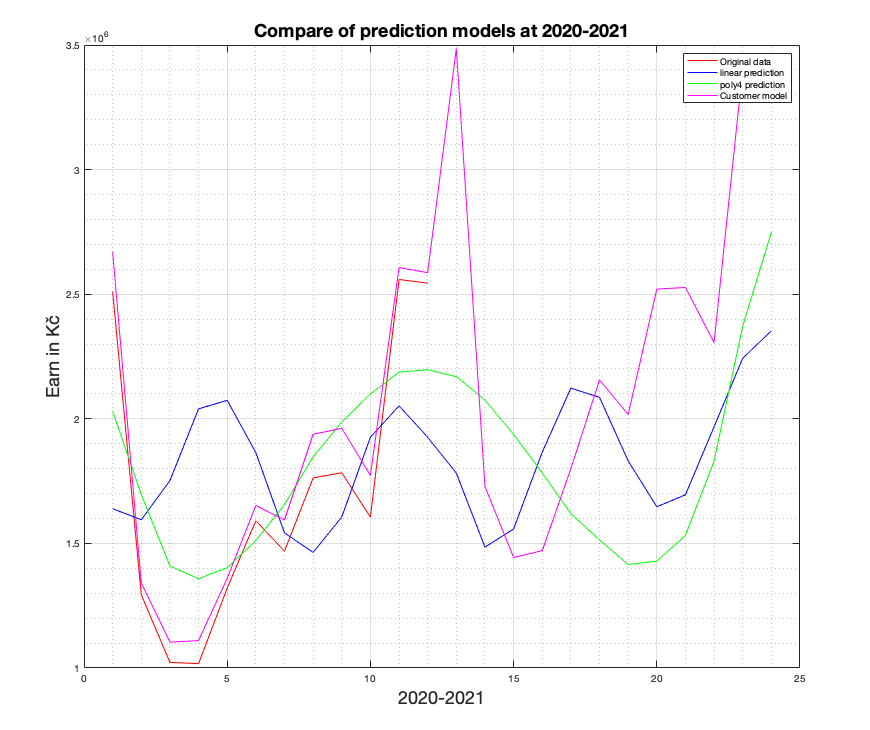
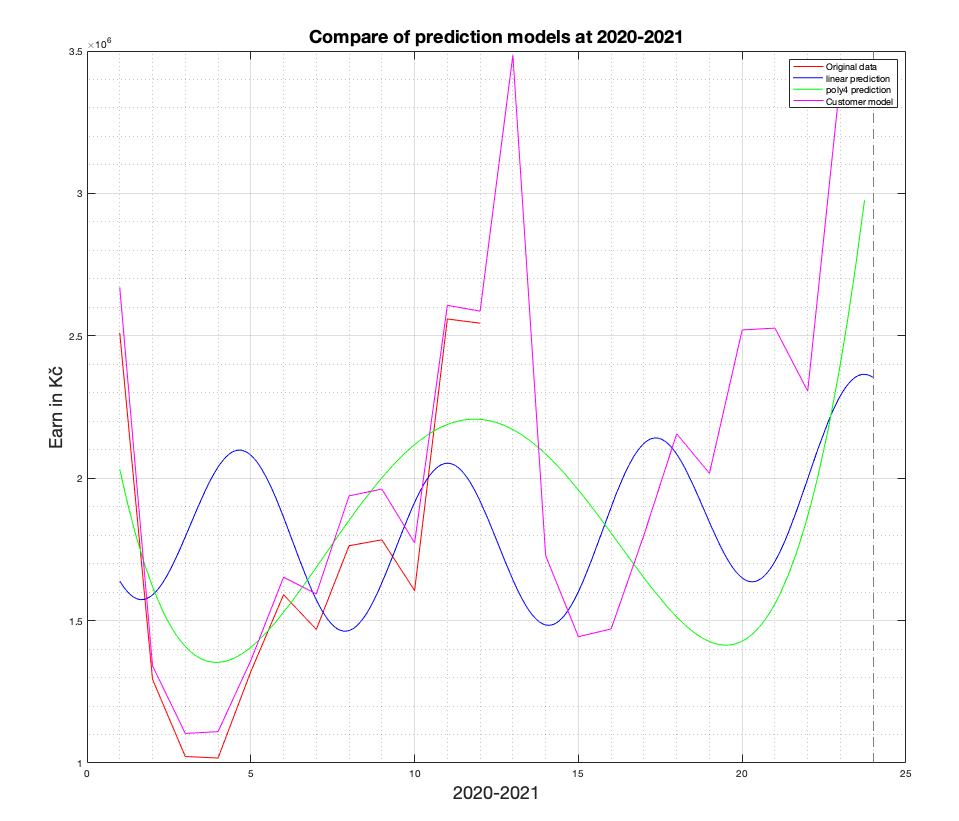
Final corrections.

diff --git a/chapters/synthesis.tex b/chapters/synthesis.tex
@@ -8,12 +8,13 @@ Finally, our approach will return future income for online store based on previo
 Customer behavior HMM directly returns number of predicted orders used to calculate estimated income.
 For successful prediction open data for store strength and customer satisfaction and some predefined and computed variables from store will be used.
 
-\section{Customer behavior HMM} \label{sec:submodels}
+\section{Customer behavior Hidden Markov Model} \label{sec:submodels}
 Our model is based on Markov models (see section~\ref{markovmodel}) and consist of these three states: order, not finished order, no order decision.
 Model simulates customer behavior during order process and tries to return the way with the most probability.
 Then reads the results by Viterbi algorithm and checks if the order was made.
 As inputs serves probabilities from predefined submodels used as transition matrix for HMM, number of customers in the predicted period,
-probability matrix of initial states and average income per order from previous period.\\
+probability matrix of initial states and average income per order from previous period.
+On the figure~\ref{Model schema with interaction} the computation flow and interactions between models in Customer behavior HMM is presented.\\
 \begin{figure}[h!]
     \begin{center}
         \includegraphics[width=100mm]{computation_schema.png}
@@ -40,31 +41,22 @@ In the first step the model got predefined data from initial part (see section~\
     \caption{Overview of states and their combinations}
     \label{states}
 \end{figure}\\
-On the figure~\ref{Model schema with interaction} the computation flow and interactions between models in Customer behavior HMM is presented.\\
 \subsection{Vendors submodel} \label{subsec:model_vendors}
-For simplification, we will take to account only a two vendors market share, without 100\% domination, because on a real
-market is 100\% monopole unlikely to see and then we will be reflected only main competitor.
-From that condition it is evident that for market to which dominate vendor it will return false positive results.
-Our model is based on equations from Brands section~\ref{eq:10} and from those equations we will get probability of vendor
-change from vendor $A$ to vendor $B$ and if the vendor $B$ will have more strength than vendor $A$ it will disrupt the
+For simplification, we will take into account only two vendors market share, without 100\% domination, because on a real
+market 100\% monopole is unlikely to see and then we will reflect only main competitor.
+From that condition it is evident that for market to which vendor dominates it will return false positive results.
+Our model is based on equations from Brands (section~\ref{eq:10}) and from those equations we will get probability of vendor
+change from vendor $A$ to vendor $B$ and if the vendor $B$ will have more strength than vendor $A$, it will disrupt the
 computation and customer will leave our store without completing buying process successfully.
-Results of this computation wil be probability for each iteration of buying process simulation in an interval $[0,1]$.
+Results of this computation will in form of probability for each iteration of buying process simulation in an interval $[0,1]$.
 Data for this model will come from open data provided by google.com, heureka.cz/heureka.sk and national governments.
-That data will be combined with calculated price indexes downloaded from shopycrm.com tool (see flowchart~\ref{flowchart_vendor}).
+That data will be combined with calculated price indexes downloaded from shopycrm.com tool (see flowchart~\ref{flowchart_vendor}):
 \\
 \begin{equation} \label{eq:13}
-V_{xy} = \beta H(P_x-P_y) + \gamma H(Qx-Qy) + \delta H(Px-Py)H(Q_x - Q_y)
+V_{xy} = \beta H(P_x-P_y) + \gamma H(Qx-Qy) + \delta H(Px-Py)H(Q_x - Q_y),
 \end{equation}
 \\
-where $\beta, \gamma, \delta$ are non-negative~\ref{vendorCoeff}.
-\\
-\begin{itemize}
-    \item $P$ is prices of vendors products
-    \item $Q$ is a quality index of vendor
-    \item $H$ is a Heaviside function which will be calculated by equation~\ref{eq:13}.
-\end{itemize}\\
-\\
-\\
+where $\beta, \gamma, \delta$ are non-negative, $P$ is prices of vendors products, $Q$ is a quality index of vendor, $H$ is a Heaviside function which has values:\\
 \begin{equation} \label{eq:14}
 \begin{array}{l}
     H(s) = 1, s > 0 \\
@@ -73,52 +65,42 @@ where $\beta, \gamma, \delta$ are non-negative~\ref{vendorCoeff}.
 \end{equation}
 \\
 \subsection{Psychology submodel} \label{subsec:model_psychology}
-Psychology aspect is trying to simulate customer behavior in thee situation like a prices aspect, society influenced, mood aspect, actual needs
-and so on.
-In this model we will simplify only for price effect (see section~\ref{subsubsec:model_psychology_price}) and center of mass effect (see section~\ref{subsubsec:model_psychology_mass}).\\
+Psychology aspect is trying to simulate customer behavior in situations like a prices aspect, society influenced, mood aspect, actual needs and so on.
+In this model we will simplify only price effect and center of mass effect.\\
 \\
-\textbf{Price aspect} \label{subsubsec:model_psychology_price} is described by equation~\ref{eq:15} and Center of mass is described by equation~\ref{eq:17}.\\
+\textbf{Price aspect} \label{subsubsec:model_psychology_price} is described by equation:\\
 \\
 \begin{equation} \label{eq:15}
-\overset{-}{Q} = \frac{1}{n_p} \sum_{i=1}^{n_p} Q_i
+\overset{-}{Q} = \frac{1}{n_p} \sum_{i=1}^{n_p} Q_i,
 \end{equation}
 \\
-\begin{itemize}
-    \item $Q_i$ number of orders for product $i$ per day divide amount of orders per same day, prom interval $[0,1]$
-    \item $n_p$ number of products in store
-\end{itemize}
-\\
+where $Q_i$ number of orders for product $i$ per day divide amount of orders per same day, prom interval $[0,1]$, $n_p$ number of products in store:\\
 \begin{equation} \label{eq:16}
-\alpha_{ij} = \frac{C+max(Q_j, \overset{-}{Q})}{C+max(Q_i, \overset{-}{Q})}
+\alpha_{ij} = \frac{C+max(Q_j, \overset{-}{Q})}{C+max(Q_i, \overset{-}{Q})}.
 \end{equation}
 \\
 Coefficient C is used to be $\alpha_{ij}$ always positive.
 \textbf{Center of mass aspect} \label{subsubsec:model_psychology_mass} is applied as a part of sociology to our psychology model.
 Marketers use it for manipulating with customers in global way.
-Like a black friday, Cyber monday etc., in that days stores manipulate with our psychology by discount prices.
+Like a black friday, Cyber monday etc., in that days stores manipulate with our psychology by discount prices:
 \\
 \begin{equation} \label{eq:17}
-\overset{-}{P} = \frac{1}{n_p} \sum_{i=1}^{n_p} P_i
+\overset{-}{P} = \frac{1}{n_p} \sum_{i=1}^{n_p} P_i,
 \end{equation}
-\begin{itemize}
-    \item $P_i$ is defined as product price minus retail recommend price divide average price
-    \item $n_p$ number of products in store
-\end{itemize}
-\\
+where $P_i$ is defined as product price minus retail recommend price divide average price, $n_p$ number of products in store:\\
 \begin{equation} \label{eq:18}
-\beta_{ij} = \frac{C+max(P_j, \overset{-}{P})}{C+max(P_i, \overset{-}{P})}
+\beta_{ij} = \frac{C+max(P_j, \overset{-}{P})}{C+max(P_i, \overset{-}{P})}.
 \end{equation}
 \\
 This model returns final probability as count of $\alpha$ and $\beta$ probabilities for customer decision to make action from interval $[0,1]$.
 \\
 \subsection{Loyalty submodel} \label{subsec:model_loyalty}
-This submodel is based on Luarn \& Lin research~\cite{luarn} and we changed their model for our needs.\\
+This submodel is based on Luarn \& Lin research~\cite{luarn} and we changed their model for our needs:\\
 \begin{equation} \label{eq:19}
 L = \frac{R+Z}{Z},
 \end{equation}
 \\
 where L is probability of whole loyalty model, R is probability of separate loyalty model, Z is probability of commitment model.
-\end{enumerate}
 \\
 As we see on figure~\ref{Loyalty scheme} Loyalty model consists of three sub-models (Trust, Customer Satisfaction, Perceived value)
 but commitment model consist of only Trust and Customer Satisfaction.
@@ -162,8 +144,10 @@ Then partial results were combined into complex prediction mechanism, as you can
 HMM in combination with Viterbi algorithm will be used to detect hidden states, which will be reflected in predefined weights for specific
 industries to return data matrix with prediction.
 In a Hidden Markov Model (HMM), we have an invisible Markov chain (which we cannot observe), and each state
-generates in random one out of $k$ observations, which are visible to us. This final generated state is not important for us.
-We need know the way true states. This why Viterbi is used
+generates in random one out of $k$ observations, which are visible to us.
+This final generated state is not important for us.
+We need know the way true states.
+This why Viterbi is used
 Let’s look at our situation.
 Suppose we have the Markov Chain from above, with three states (order, not finished order and no order decision),
 $P$ - the transition probability matrix and $q$ — the initial probabilities.
@@ -187,4 +171,4 @@ P = \left(
 \end{equation}\\
 \\
 where $V_{xy}$ is vendor probability, $\alpha, \beta$ are partial results from psychology submodel, $R$ is partial
-loyalty and $Z$ is commitment probability. $l,m,k$ are a coefficients of initial states probabilities.
+loyalty and $Z$ is commitment probability, and $l,m,k$ are coefficients of initial states probabilities.

diff --git a/chapters/analysis.tex b/chapters/analysis.tex
@@ -43,7 +43,7 @@ Proprietary locking is for example blocking mobile phones for only one of the op
 \\
 \section{Modeling of Human Behavior} \label{sec:modeling}
 Overview of mathematical models and approaches used to modeling marketing approaches usually used to simulate consumer behavior is described in this section.
-\subsection{Dynamic Model} \label{subsec:dynamicModel}\\
+\subsection{Dynamic Models} \label{subsec:dynamicModel}\\
 One of the simplest models that have been considered for human behavior modeling are \textbf{dynamic single} prices~\cite{pantland}:
 
 \begin{equation} \label{eq:1}
@@ -82,7 +82,7 @@ However, this may be justified because, at the very least, subjective attribute 
 The $i$th measurement of innovations process is, intuitively, the part of the observation data that is unexplained by the $i$th model.
 The model that explains the largest portion of the observations is, of course, the model most likely to be correct.
 \\
-\subsection{Discrete-time model} \label{subsec:discrete}\\
+\subsection{Discrete-time Models} \label{subsec:discrete}\\
 Discrete models or difference equations \footnote{Difference equations can be viewed either as a discrete analogue of differential equations, or independently.
 They are used for approximation of differential operators, for solving mathematical problems with recurrences, for building various discrete
 models, etc.} are used to describe biological events or whole systems for which it is natural to regret time at fixed discrete intervals~\cite{pantland}:
@@ -98,7 +98,7 @@ The measurement innovations process for the $i$th model.\\
 \\
 The $i$th measurement innovations process is, intuitively, the part of the observation data that is unexplained by the $i$th model.
 The model that explains the largest portion of the observations is, of course, the model most likely to be correct.\\
-\subsection{Regression model} \label{sec:regression}
+\subsection{Regression Models} \label{sec:regression}
 A regression model is used to investigate the relationship between two or more variables and estimates one variable based on the others.
 In regression analysis, variables can be independent, which are used as the predictor or causal input and dependent, which are used as response variables.
 
@@ -240,6 +240,7 @@ Then, the initial distribution, together with the transition matrix P, determine
 	\caption{Basic schema of Markov model in human decision~\cite{patel}}
 	\label{markovmodel}
 \end{figure}\\
+\\
 \textbf{Hidden Markov model} \label{subsec:hmm}\\
 The statistical implementation of Markov chain in which the system being modeled is assumed to be a Markov process $X$ with unobservable states.
 HMM assumes that there is another process $Y$ with dependent behavior on $X$.
@@ -357,7 +358,7 @@ to a plane in three-dimensional space $(A, B, C)$.\\
 the probability, $p_i$, with which a customer buys a given product $i$ from a range of products $[1, n]$ depends on
 the value which customer internally assigned to that product and his price.
 This dependence is taken to be of exponential form.
-Assuming that guaranteeing that all probabilities are positive)
+Assuming that guaranteeing that all probabilities are positive:
 \\
 \begin{equation} \label{eq:9}
 p_i = C\exp(V_i - sP_i),
@@ -404,12 +405,12 @@ Consider a linear flux $\alpha_{xy}$ of preferences moving to brand $X$ from bra
 All fluxes have to be strictly positive.
 It's in improper to consider negative flux, so really excluded is only zero value.
 Flux is the proportion of customer preference to switch to other brand or product from previous one.
+The shaded region in figure~\ref{Affordability of products} is the region of products dominated by product 1.
 \begin{figure}[h!]
 	\begin{center}
 		\includegraphics[width=80mm]{affordability.png}
 	\end{center}
-	\caption{Products in the affordability-value plane.
-	The shaded region is the region of products dominated by product 1~\cite{pantland}.}
+	\caption{Products in the affordability-value plane~\cite{pantland}.}
 	\label{Affordability of products}
 \end{figure}
 \\

diff --git a/chapters/evaluation.tex b/chapters/evaluation.tex
@@ -3,17 +3,17 @@
 \section{Experiment} \label{experiment}
 Let us prepare experiment to test our models.
 We have prepared three models to create a prediction.
-Data from section~\ref{sec:preprocessing} was used to predict the income for the year 2020.
-We used Matlab to calculate linear regression analysis, polynomial regression analysis and prepare prediction application with Customer behavior HMM.
+Data from section~\ref{sec:preprocessing} were used to predict the income for the year 2020.
+We used Matlab to calculate linear regression, polynomial regression and proposed prediction with Customer behavior HMM.
 From each process we got real income for the year 2020, which were subsequently compared in Evaluation section~\ref{evaluation}.
 Firstly we solved linear regression for model.
 The second one was polynomial model.
-At the last one we solved Customer behavior HHM as submodel combination in $P = (Y_n \in A|X_n = x_n)$.
+At the last we solved Customer behavior HHM as submodel combination in $P = (Y_n \in A|X_n = x_n)$.
 At a first glance we can see that the results from the models are different.
-The first linear model with trigonometric function is not satisfying in real income results, but on the other hand was produced a very interesting result for trend prediction.
-In~contrast with polynomial model which has much better results in absolut income results, but much worse in trend prediction.\\
-We compared prediction period and for each we calculate aberration against real store income from 2020.
-Let us see our experiment in detail description and then see results in Evaluation section~\ref{evaluation} and Summary section~\ref{summary}.\\
+The first linear model with trigonometric function is not satisfying in real income results, but on the other hand produced a very interesting result for trend prediction.
+In~contrast with polynomial model which has much better results in absolute income results, but much worse in trend prediction.\\
+We compared the models for prediction period and for each we calculate aberration against real store income from 2020.
+Let us see our experiment in detail and then see results in Evaluation section~\ref{evaluation} and Summary section~\ref{summary}.\\
 \subsection{Preprocessing of input data} \label{sec:preprocessing}
 The data comes from Megaplay s.r.o online stores and should have to be\\ anonymized \footnote{Data anonymization is a type of information sanitization whose intent is privacy protection.
 It is the process of either encrypting or removing personally identifiable information from data sets, so that
@@ -181,7 +181,7 @@ get good results, in the opposite of results of linear model prediction.
     \begin{center}
         \includegraphics[width=140mm]{results.png}
     \end{center}
-    \caption{Prediction from models for years 2020-2021, with real income for 2020.}
+    \caption{Prediction for years 2020-2021.}
     \label{results}
 \end{figure}\\
 In the graphical view we saw that all our models copy the income, but some of them are easier to calculate, this differences you can see described in Summary (see section~\ref{summary}).

diff --git a/thesis.tex b/thesis.tex
@@ -53,11 +53,11 @@
 
 \abstract{%
     % slovak
-    Táto práca sa zamerává na matematické modelovanie a správanie zákazníka. Cieľom je vytvoriť predikčný model, lepší ako lineárna a polynomická regresia.
+    Táto práca sa zameriava na matematické modelovanie a správanie zákazníka. Cieľom je vytvoriť predikčný model, lepší ako lineárna a polynomická regresia.
     Ako referenčný model sa používa metóda regresnej analýzy. V porovnaní s týmito metódami som použil matematický model založený na troch submodeloch kombinovaných
     do jedného predikčného mechanizmu skrytým Markovovým modelom. V týchto modeloch sú použité metódy ako Kallmanovo filtrovanie, Viterbiho algoritmus,
-    logit analýza, binárne porovnanie a rozhodovacie stromy. Výsledky ukazujú, že lineárna regrésia nie je vhodná na presnú predikciu ale velmi dobre odhaduje budúci trend.
-    Polynomická regresia sa jeví lepšia s má priemernú odchýlku okolo 25 \%.
+    logit analýza, binárne porovnanie a rozhodovacie stromy. Výsledky ukazujú, že lineárna regresia nie je vhodná na presnú predikciu ale velmi dobre odhaduje budúci trend.
+    Polynomická regresia sa jeví lepšia a má priemernú odchýlku okolo 25 \%, no navrhnutý model ľudského správania založený na skrytých markovových procesech dosahuje najlepšie výsledky.
 }{%
 % english
     This thesis deals about mathematical modeling of Customer behavior. The goal is to create prediction model that is better than statistical linear or polynomial regression.
@@ -66,7 +66,7 @@
     mechanism by the hidden Markov model is used.
     In these models methods like Kallman's filtering, Viterbi algorithm, logic analysis, binary comparison and decision trees are used.
     The results show that linear regression is not suitable for this purpose, but it is very usefull in prediction of trend.
-    Polynomial regression is much better and has average aberrance about 25 \%.
+    Polynomial regression is much better and has average aberrance about 25 \%, but the proposed Customer behavior hidden Markov model shows the best performance.
 }
 
 \acknowledgment{Very strong thanks to whole teaching staff at the Institute of Control and Informatization of Production Processes for their patience, leadership and knowledge which helped me to write this thesis.
